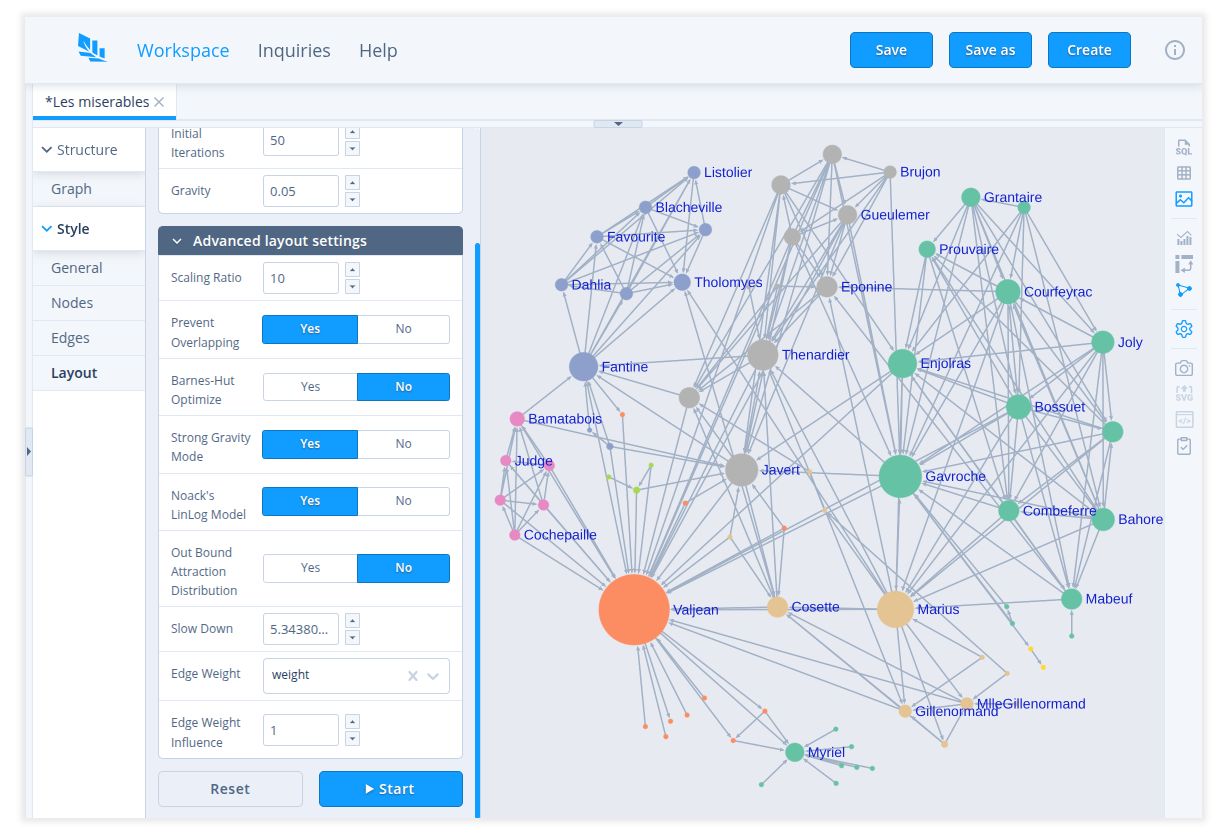
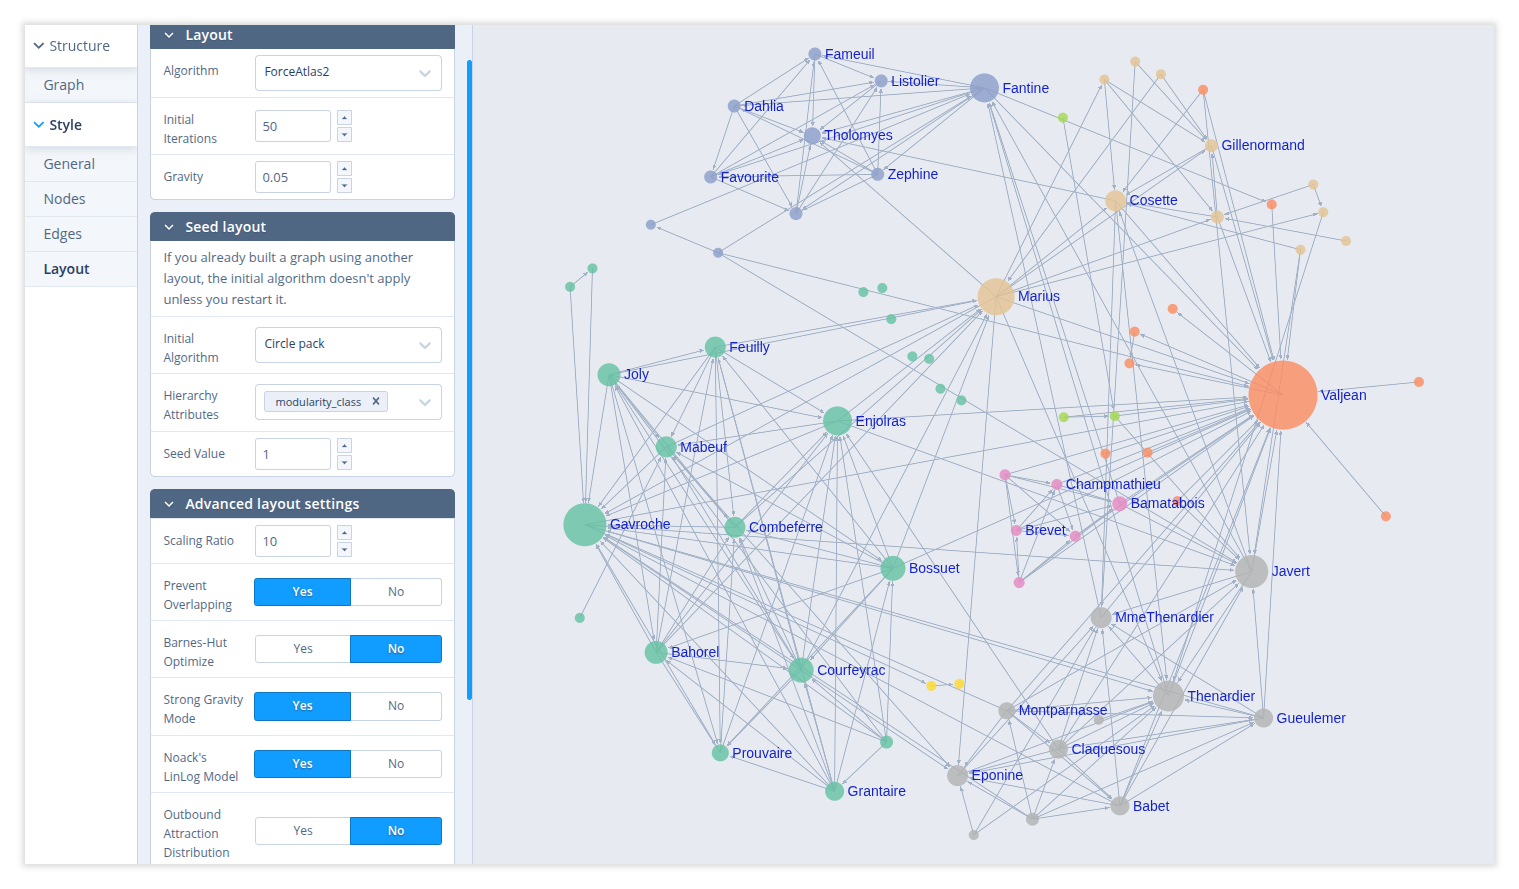
about seed layout

diff --git a/Graph.md b/Graph.md
@@ -210,8 +210,23 @@ hierarchy attributes to group nodes.
 A continuous graph layout algorithm. Read more details about the algorithm and its settings in the
 [article][3]. The algorithm works iteratively. When you choose ForceAtlas2 layout or run the query,
 it is automatically run 50 iterations of the algorithm. You can change the amount of steps run
-automatically in `Initial Iterations`. You can also run and stop the algorithm manually by
-clicking `Start`/`Stop` button.
+automatically in `Initial Iterations`.
+
+If you want to see the effect of further iterations, click `Continue`.
+Click `Pause` to stop the algorithm run.
+
+The graph must have an initial layout before running ForceAtlas2 algorithm.
+Different initial layout lead to different result. You can choose an initial
+layout in `Seed layout` fold.
+
+Note that to see the effect of another seed layout you need to restart the
+algorithm by clicking `Restart` button. It will make iterationы in the amount
+of `Initial Iterations` setting.
+
+Also note that seed layout will not be applied if the graph already had a layout
+other than ForceAtlas2. For example, if you first applied the random layout and
+then switched to ForseAtlas2. Click `Restart` button to make the algorithm
+start from the beginning using the seed layout.
 
 ![Fig. 4: ForceAtlas2 layout](./img/Screenshot_graph_force_atlas2.png)
 

diff --git a/How-to-get-result-set-suitable-for-graph-visualisation.md b/How-to-get-result-set-suitable-for-graph-visualisation.md
@@ -21,7 +21,7 @@ Let's say, you have 2 tables:
    | --- | -------------- | ---------- |
    | 1   | Harry Potter   | Gryffindor |
    | 2   | Ron Weasley    | Gryffindor |
-   | 3   | Draco Malfoy'  | Slytherin  |
+   | 3   | Draco Malfoy   | Slytherin  |
    | 4   | Luna Lovegood  | Ravenclaw  |
    | 5   | Cedric Diggory | Hufflepuff |
 
